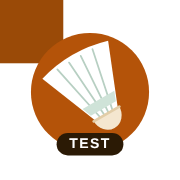
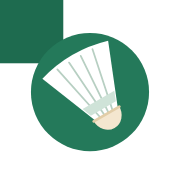
Add files via upload

diff --git a/index.html b/index.html
@@ -3,18 +3,18 @@
 <head>
 <meta charset="utf-8">
 <meta name="viewport" content="width=device-width, initial-scale=1, viewport-fit=cover">
-<title>TEST Badminton sign-ups</title>
-<meta name="description" content="Sign up for the group's badminton sessions.">
-<meta name="theme-color" content="#9A4A07">
+<title>Parle-G Smashers</title>
+<meta name="description" content="Sign up for Parle-G Smashers badminton sessions.">
+<meta name="theme-color" content="#1E6B4F">
 <meta name="apple-mobile-web-app-capable" content="yes">
 <meta name="mobile-web-app-capable" content="yes">
-<meta name="apple-mobile-web-app-title" content="TEST Badminton">
+<meta name="apple-mobile-web-app-title" content="Parle-G Smashers">
 <meta name="apple-mobile-web-app-status-bar-style" content="black-translucent">
 <link rel="manifest" href="manifest.webmanifest">
 <link rel="apple-touch-icon" href="apple-touch-icon.png">
 <link rel="icon" type="image/png" href="icon-192.png">
 <style>
-  html, body { margin: 0; height: 100%; background: #9A4A07; }
+  html, body { margin: 0; height: 100%; background: #1E6B4F; }
   .splash {
     min-height: 100%;
     display: flex; flex-direction: column; align-items: center; justify-content: center; gap: 18px;
@@ -26,7 +26,7 @@
   #splash-msg { max-width: 300px; min-height: 2.9em; }
   #splash-msg button {
     margin-top: 12px; min-height: 44px; padding: 0 18px; border-radius: 10px;
-    background: #fff; color: #9A4A07; border: 0; font: 600 16px system-ui, -apple-system, sans-serif; cursor: pointer;
+    background: #fff; color: #1E6B4F; border: 0; font: 600 16px system-ui, -apple-system, sans-serif; cursor: pointer;
   }
 </style>
 <script src="config.js"></script>
@@ -35,7 +35,7 @@
 <body>
   <div class="splash">
     <img src="icon-192.png" alt="">
-    <h1>Badminton TEST</h1>
+    <h1>Parle-G Smashers</h1>
     <div id="splash-msg" role="status">Loading sign-ups…</div>
   </div>
   <noscript><p style="color:#fff;text-align:center">This app needs JavaScript turned on.</p></noscript>

diff --git a/config.js b/config.js
@@ -1,11 +1,9 @@
-// The only file you need to edit. Paste the two values between the quotes.
+// Parle-G Smashers (LIVE) settings.
 
 window.BADMINTON_CONFIG = {
-  // Your sign-up page link from Apps Script: Deploy > Manage deployments > Web app URL.
-  // It ends in /exec
-  appsScriptUrl: 'https://script.google.com/macros/s/AKfycbxXRmgOwY9Fv2pUvw-lnLLTw2LC0YQ4ulwxosmnE45uHKoEmRh2Ww-fhI4WSYoADuNi/exec',
+  // The LIVE sign-up sheet's link. Already filled in.
+  appsScriptUrl: 'https://script.google.com/macros/s/AKfycbxTyEKPGDZnSIXHHjGcIipsCL-aimUeZZVrZX-HzeQSiBeLCL_WIs3y2fmCD172Gs7p/exec',
 
-  // From OneSignal: Settings > Keys & IDs > App ID.
-  // Leave it empty and the app still works, just without notifications.
-  oneSignalAppId: 'e6ea5d2f-8f04-4758-9288-cf8e5da74ce1'
+  // Paste the App ID of the NEW "Parle-G Smashers" OneSignal app between the quotes.
+  oneSignalAppId: 'a6b4b832-9245-4a64-933e-766198e757f4'
 };
